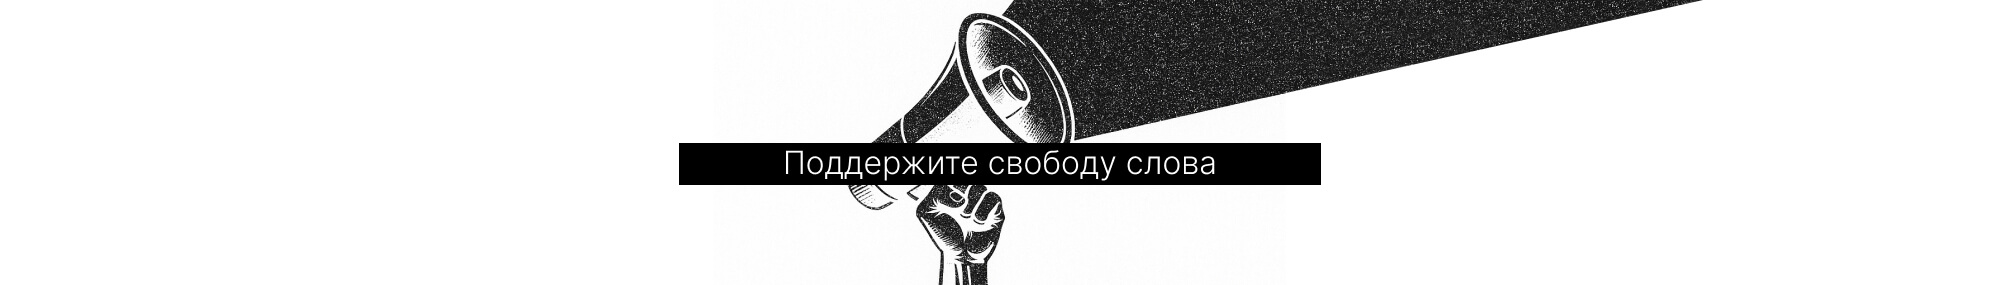
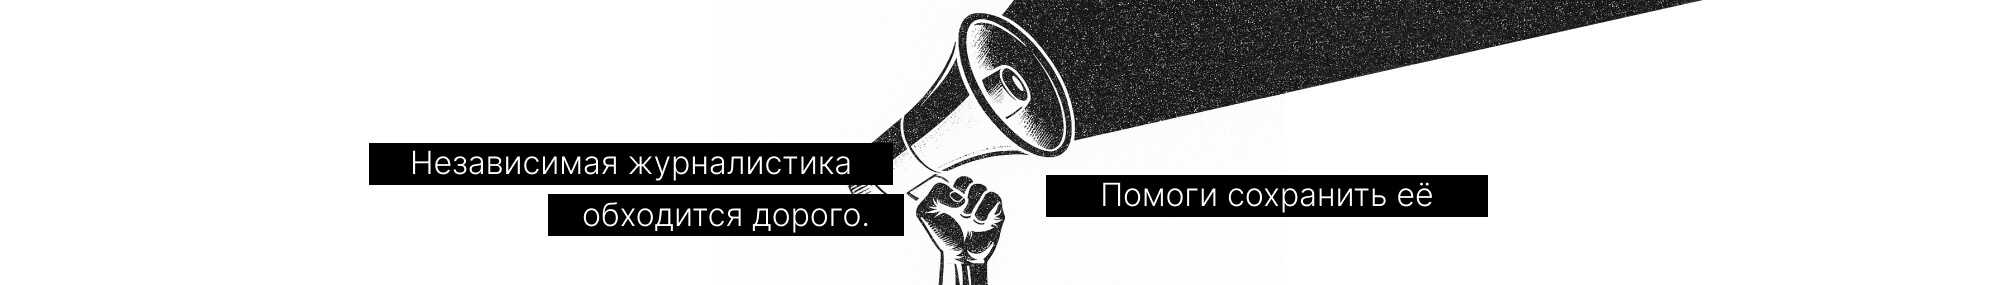
add

Changed region(s): [[0.186, 0.4772, 0.744, 0.8421]]

diff --git a/about.html b/about.html
@@ -3,3 +3,12 @@ title: "About"
 layout: default
 image: "/assets/images/screenshot.jpg"
 ---
+
+#### Поддержи свободу слова
+
+Мы — молодое независимое издание.
+Пишем о войне, разрушенных жизнях и людях, которых оставили за спиной. Слушаем тех, кого обычно не слышно.
+
+Нас никто не финансирует. Мы выживаем благодаря тем, кто считает, что честная журналистика — не роскошь, а необходимость.
+
+Если ты тоже так считаешь — поддержи нас. Даже 100 рублей помогают нам делать свою работу.
